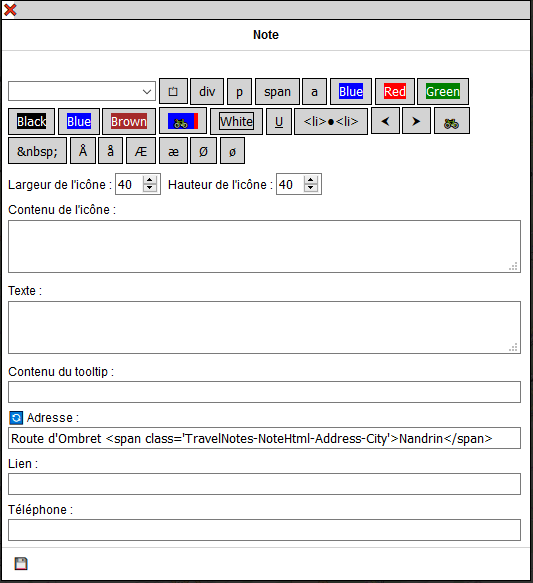
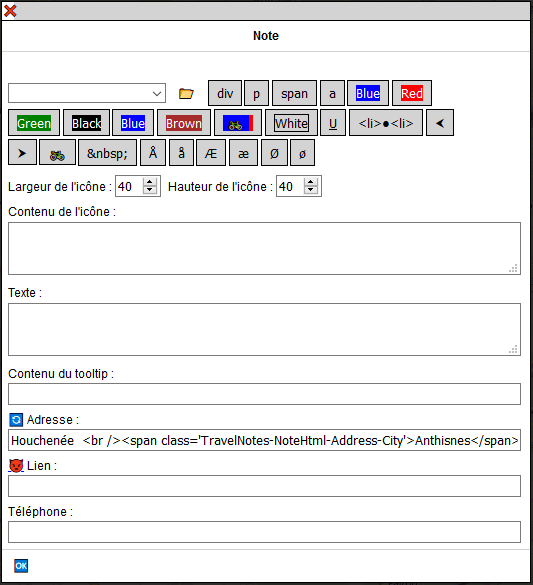
Updating user guides

diff --git a/TravelNotesGuides/fr/GuideUtilisateurFR.md b/TravelNotesGuides/fr/GuideUtilisateurFR.md
@@ -52,17 +52,7 @@ ni ne les laissez pas trainer n'importe où.
 
 ### Comment introduire vos clefs d'accès dans Travel & Notes
 
-*(depuis v1.6.0 ->)*
-
-
-
-
-
-
-
-
-
-Les clefs d'accès sont gérées à partir de la boite de dialogue des clefs d'accès. Pour afficher celle-ci, cliquez sur le bouton :key: dans la barre d'outil en haut de l'interface.
+*(depuis v1.6.0 ->)* Les clefs d'accès sont gérées à partir de la boite de dialogue des clefs d'accès. Pour afficher celle-ci, cliquez sur le bouton :key: dans la barre d'outil en haut de l'interface.
 
 <img src="APIKeysDialogFR.PNG" />
 
@@ -75,8 +65,9 @@ Quand vos clefs d'accès sont introduites, appuyez sur le bouton :ok: pour termi
 
 Il est possible de sauvegarder les clefs d'accès dans un fichier, protégé par un mot de passe ou non protégé.
 
-Attention: seul Firefox permet de sauvegarder les clefs d'accès dans un fichier protégé par mot de passe depuis une page servie en http. Tous les autres browsers exigent une page servie en https.
-MS Edge ne permet pas la sauvegarde dans un fichier protégé par un mot de passe.
+**Attention:**
+- seul Firefox permet de sauvegarder les clefs d'accès dans un fichier protégé par mot de passe depuis une page servie en http. Tous les autres browsers exigent une page servie en https.
+- MS Edge ne permet pas la sauvegarde dans un fichier protégé par un mot de passe.
 
 Le bouton :floppy_disk: à **gauche** de la boite de dialogue permet de sauver les clefs d'accès dans un fichier protégé par mot de passe. Celui-ci doit contenir au moins 12 caractères dont
 au moins une majuscule, une minuscule, un chiffre et un autre caractère.
@@ -98,15 +89,14 @@ Pour les geeks et les paranos voyez aussi dans le guide d'installation et le fic
 - APIKeys.showAPIKeysInDialog pour montrer ou masquer les clefs comme un mot de passe dans la boite de dialogue
 - APIKeys.dialogHaveUnsecureButtons pour afficher ou masquer les boutons :floppy_disk: et :file_folder: à __droite__
 
-l'ancienne méthode consistant à introduire les clefs d'accès via l'url continue à fonctionner.
-*(<- depuis v1.6.0)*
+l'ancienne méthode consistant à introduire les clefs d'accès via l'url continue à fonctionner.*(<- depuis v1.6.0)*
 
 
 *(jusu'à v1.6.0 ->)*
 ~~Le seul moyen d'introduire les clefs d'accès dans Travel & Notes est de mettre celles-ci à la fin de l'url de la page web chargeant Travel & Notes: vous devez introduire un ? suivi du nom du fournisseur suivi de ProviderKey
 suivi de = suivi de votre clef d'accès. Plsieurs clef d'accès peuvent être introduites simultanément en les séparants par un &.~~
 
-Exemple:
+~~Exemple:~~
 ```
 https://www.example.org/TravelNotes/?MapboxProviderKey=votre_clef_accessMapbox&GraphHopperProviderKey=votre_clef_acces_GraphHopper
 ```
@@ -117,6 +107,7 @@ lors de la fermeture du browser~~
 ~~Dès que Travel & Notes détecte des clefs d'accès dans l'url, celles-ci sont enrégistrées dans le _sessionStorage_ et effacée de l'url. Elles ne sont donc plus visibles à l'écran.
 **Cependant, rappelez-vous qu'une personne mal intentionnée peut toujours les retrouver dans l'historique du navigateur**, à moins que vous n'utilisiez le mode navigation privée de votre browser.~~
 *(<- jusqu'à v1.6.0)*
+
 ## __Interface__
 
 Lorsque la carte s'affiche, seul un petit rectangle noir est est visible dans le coin supérieur de la carte:
@@ -127,7 +118,17 @@ Déplacez la souris sur ce rectangle pour voir l'interface complète:
 
 <img src="InterfaceFR.PNG" />
 
-Si vous désirez que l'interface soit toujours visible, cliquez sur le bouton &#x1f4cc;
+*(depuis v1.6.0 ->)*
+En haut de l'interface se trouve une première barre d'outils:
+- le bouton :house: redirige vers la page d'accueil
+- le bouton @ redirige vers une page de contact. Par défaut, c'est [la page des issues de Travel & Notes sur Github](https://github.com/wwwouaiebe/leaflet.TravelNotes/issues).L'url peut être modifiée via le fichier TravelNotesConfig.json (travelNotesToolbarUI.contactMail)
+- le bouton ? redirige vers [la page d'aide sur Github](https://github.com/wwwouaiebe/leaflet.TravelNotes/tree/gh-pages/TravelNotesGuides)
+- le bouton :key: affiche la boite de dialogue des clefs d'accès
+- le bouton :globe_with_meridians: active ou désactive la localisation. Ce bouton n'est présent que si la localisation est possible (page servie en https).
+-le bouton :pushpin: affiche l'interface en permanence.
+*(<- depuis v1.6.0)*
+
+*(jusu'à v1.6.0 ->)*~~Si vous désirez que l'interface soit toujours visible, cliquez sur le bouton :pushpin:~~*(<- jusqu'à v1.6.0)*
 
 ### Trajets du voyage
 
@@ -136,7 +137,7 @@ Dans cette partie, les différents trajets du voyage ainsi que une barre d'outil
 Pour chaque trajet :
 - les boutons &#x21e7; et &#x21e9; permettent de modifier l'ordre des différents trajets. Ces boutons ne sont visibles que lorsque plusieurs trajets sont présents.
 - Le bouton &#x21f0; commence l'édition d'un trajet.
-- Le bouton &#x267b; supprime le trajet.
+- Le bouton :recycle: supprime le trajet.
 
 Il est aussi possible de faire du glisser / déposer pour réordonner les différents trajets.
 
@@ -147,11 +148,11 @@ Il est possible de donner un nom à chaque trajet. Cela n'est pas indispensable 
 #### Boutons de la barre d'outils "Trajets du voyage"
 
 - le bouton &#x25bd; agrandit la liste des trajets
-- le bouton &#x274c; efface toutes les données du voyage et commence l'édition d'un nouveau voyage.
-- le bouton &#x1f4be; sauve le voyage en cours d'édition dans un fichier sur votre ordinateur
-- le bouton &#x1f4c2; ouvre un voyage préalablement sauvé dans un fichier
-- le bouton &#x1F30F; ouvre un voyage préalablement sauvé dans un fichier et inclut tous les trajets et toutes les notes de ce voyage dans le voyage en cours d'édition
-- le bouton &#x1f4cb; ouvre le livre de voyage
+- le bouton :x: efface toutes les données du voyage et commence l'édition d'un nouveau voyage.
+- le bouton :floppy_disk: sauve le voyage en cours d'édition dans un fichier sur votre ordinateur
+- le bouton :file_folder: ouvre un voyage préalablement sauvé dans un fichier
+- le bouton :earth_asia: ouvre un voyage préalablement sauvé dans un fichier et inclut tous les trajets et toutes les notes de ce voyage dans le voyage en cours d'édition
+- le bouton :clipboard: ouvre le livre de voyage
 - le bouton + ajoute un nouveau trajet au voyage
 
 ### Points de passage du trajet
@@ -161,12 +162,12 @@ Avant de pouvoir visualiser les points de passage d'un trajet, il est nécessair
 #### Boutons de la barre d'outils "Points de passage du trajet"
 
 - le bouton &#x25bd; agrandit la liste des points de passage
-- le bouton &#x274c; abandonne l'édition du trajet. Toutes les modifications seront perdues et le trajet restauré dans l'état dans lequel il se trouvait
+- le bouton :x: abandonne l'édition du trajet. Toutes les modifications seront perdues et le trajet restauré dans l'état dans lequel il se trouvait
 avant d'être édité
-- le bouton &#x1f4be; sauve les modifications faites au trajet.
+- le bouton :floppy_disk: sauve les modifications faites au trajet.
 - le bouton __gpx__ sauve l'itinéraire calculé dans un fichier gpx
 - le bouton &#x21c5; inverse l'ordre des points de passage
-- Le bouton &#x267b; supprime tous les points de passage
+- Le bouton :recycle: supprime tous les points de passage
 
 #### Créer un point de passage
 
@@ -287,7 +288,7 @@ La note sera attachée au trajet le plus proche de celle-ci.
 
 Dans le haut de la boite, une liste déroulante permet de choisir des notes prédéfinies. Il est possible de modifier cette liste. Consultez le guide d'installation.
 
-Le premier bouton vous permet de charger votre propre fichier avec des notes prédéfinies dans Travel & Notes. Consultez le guide d'installation pour savoir comment 
+Le bouton :file_folder: vous permet de charger votre propre fichier avec des notes prédéfinies dans Travel & Notes. Consultez le guide d'installation pour savoir comment 
 créer ce fichier.
 
 Les boutons div p span et a permettent d'ajouter les balises html &lt;div&gt;, &lt;p&gt;, &lt;span&gt; et &lt;a&gt; dans les zones d'édition. Tous les autres boutons sont modifiables et
